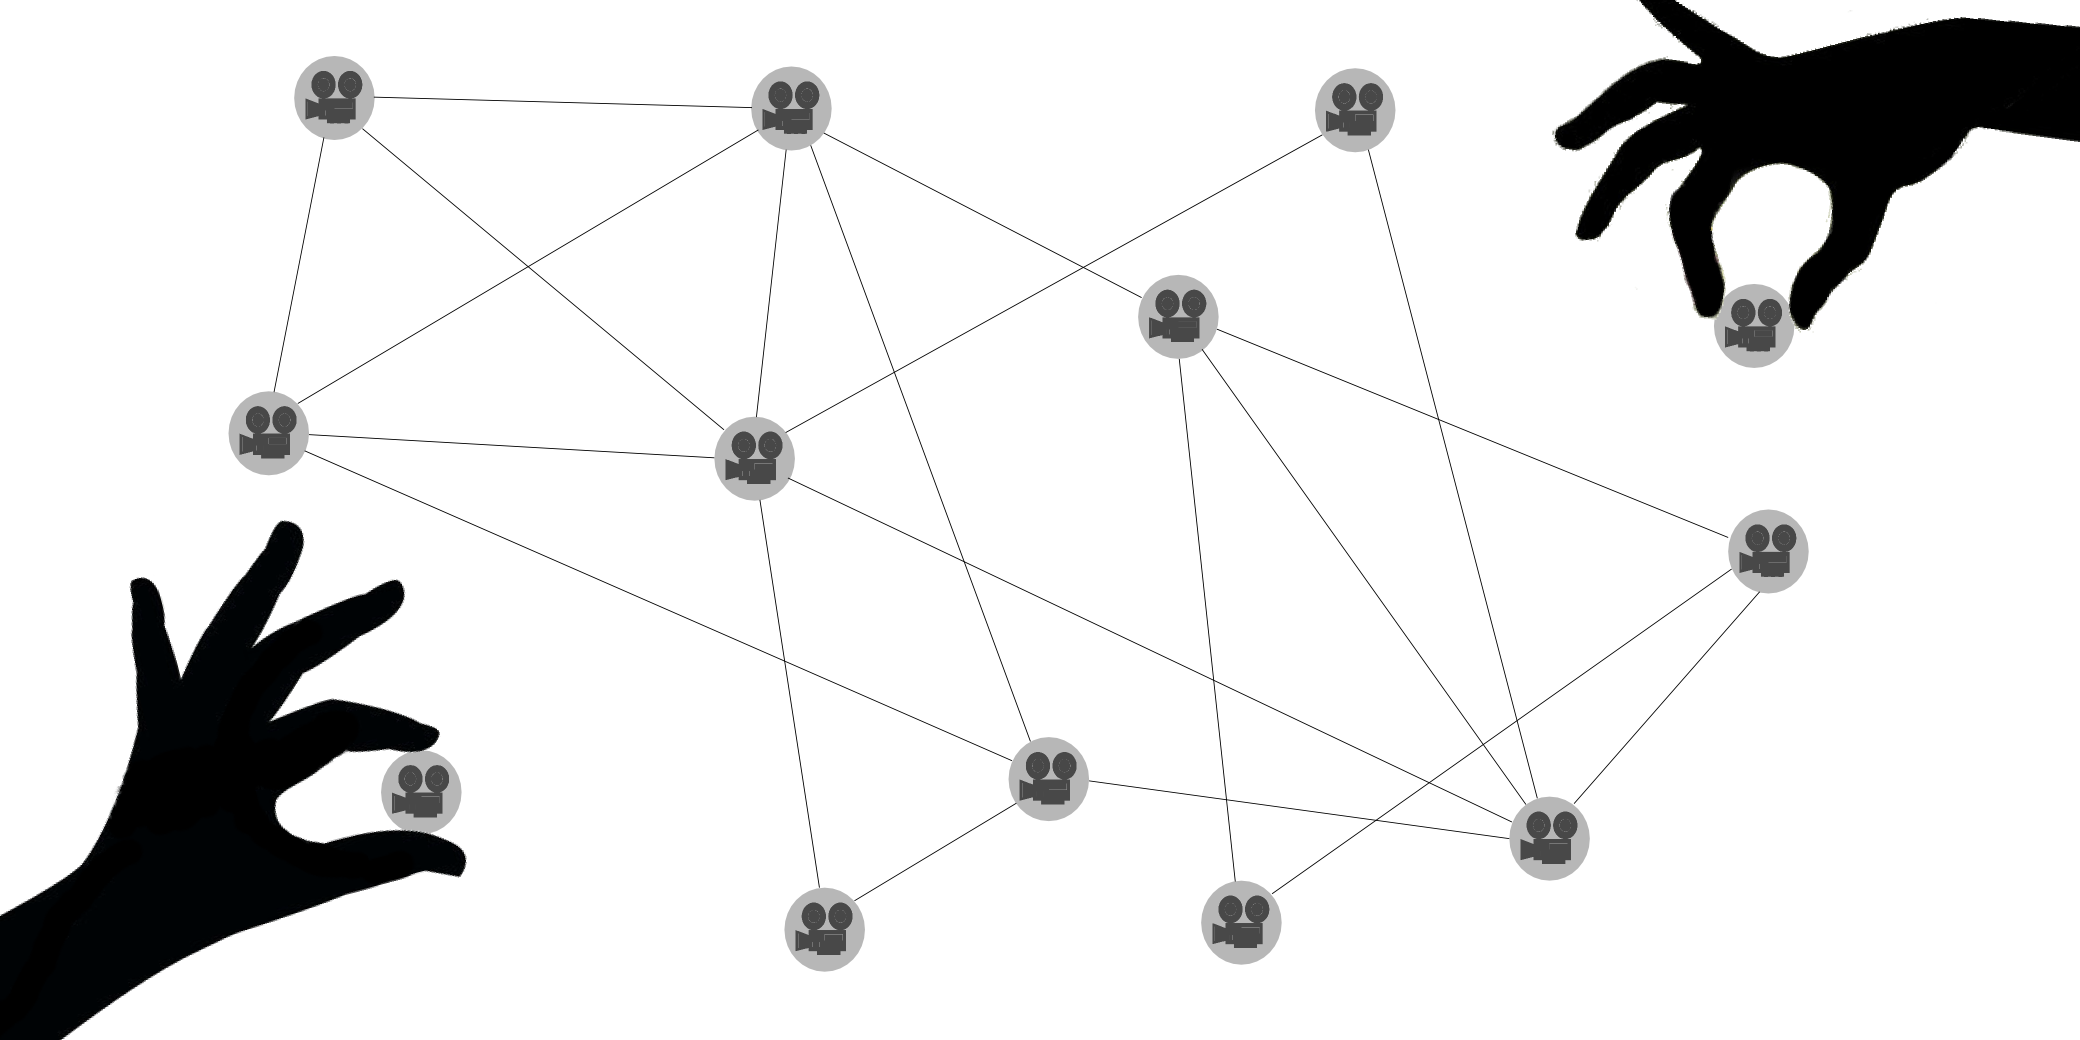
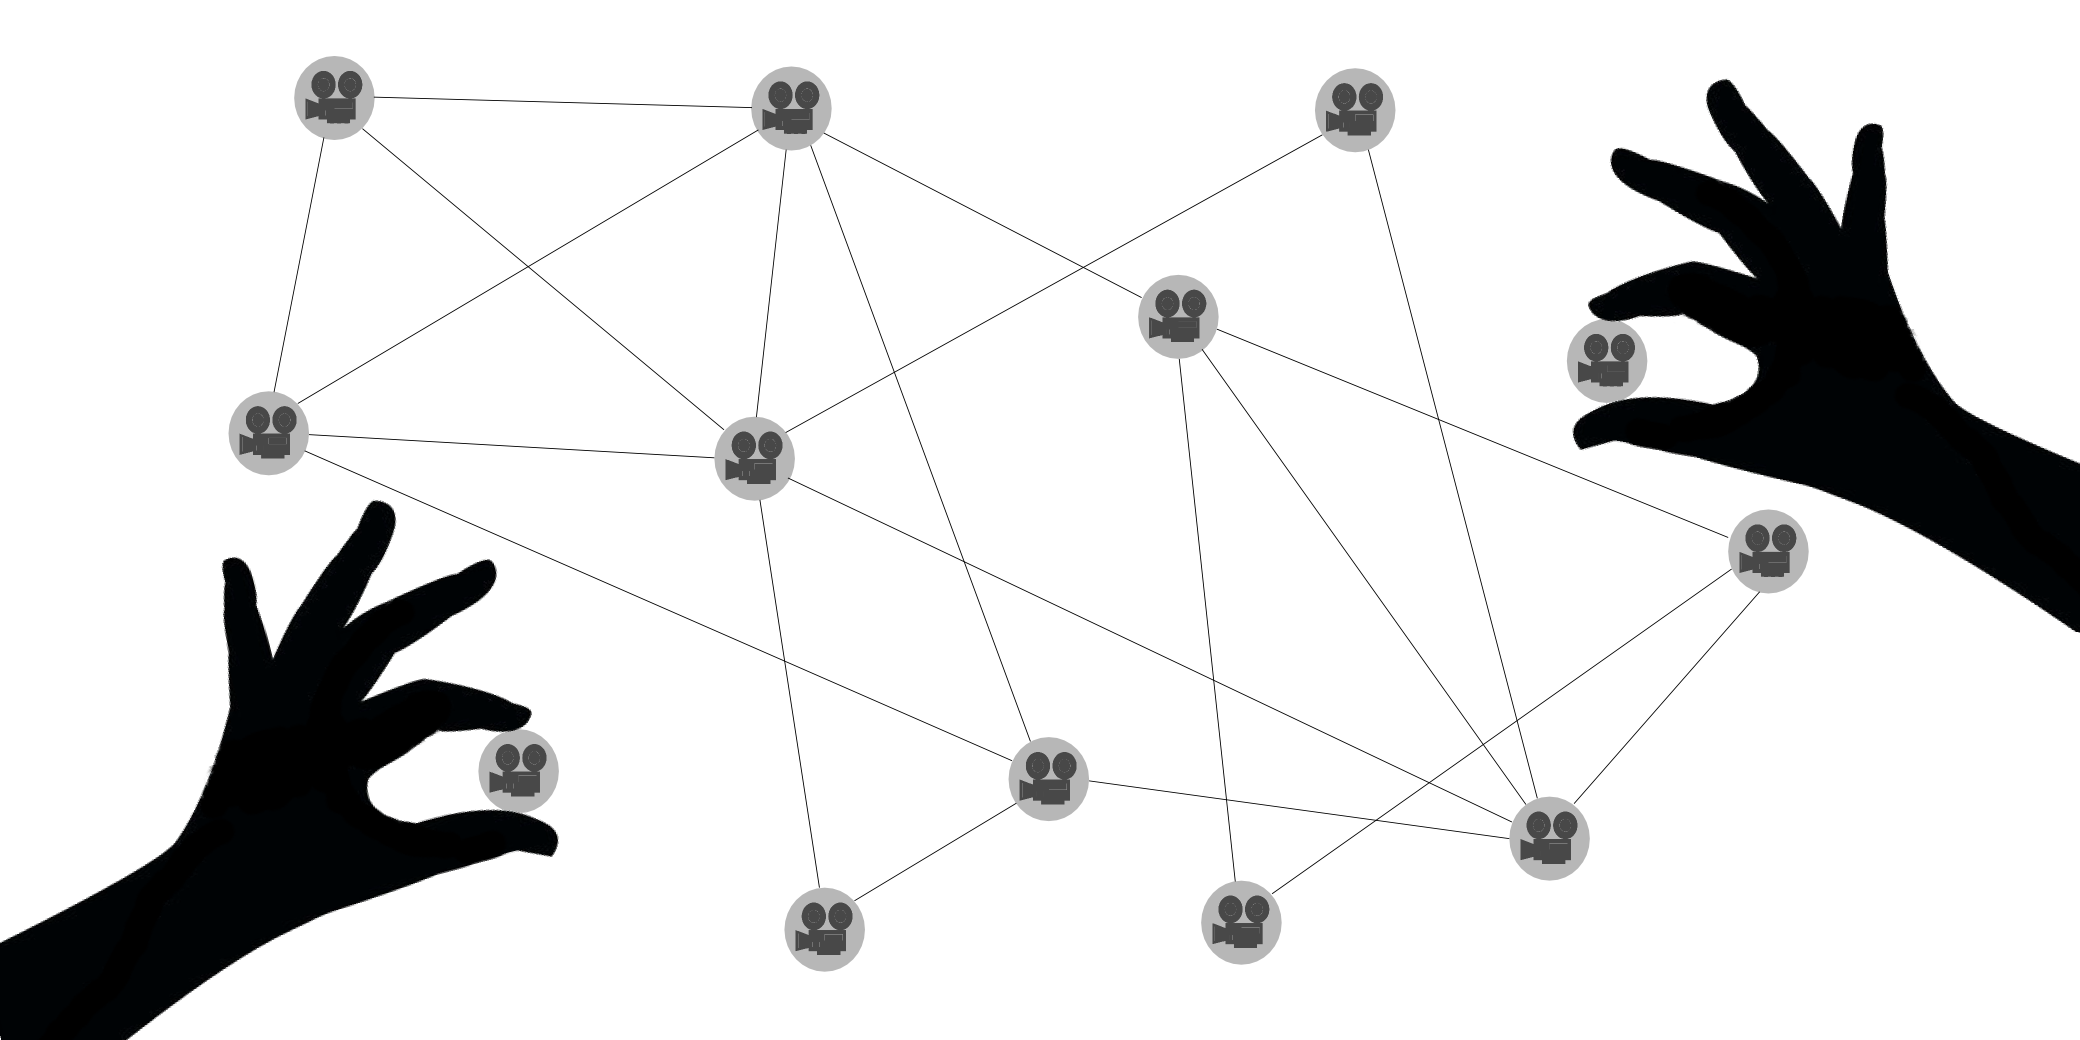
Enhancements to the style of the the camera picker

Changed region(s): [[0.75, 0.0, 1.0, 0.6154], [0.0, 0.4615, 0.2812, 1.0]]

diff --git a/src/Identity2/Content/Site.css b/src/Identity2/Content/Site.css
@@ -94,13 +94,32 @@ img.center {
     padding-right:7px;
     text-align:right;
 }
+.background-camera-pick,
+.background-camera-add,
+.background-camera-web {
+    width:100%;
+    height:100%;
+    min-width:700px;
+    min-height:700px;
+    position:fixed;
+    background-size: auto 100%;
+}
+.background-camera-pick {
+    background: no-repeat center url('../../Content/Images/CameraPicking-wide.png');
+}
+.background-camera-add {
+    background: no-repeat center url('../../Content/Images/CameraWeb.png');
+}
+.background-camera-web {
+    background: no-repeat center url('../../Content/Images/CameraWeb.png');
+}
 /**********************panels****************************/
 .add-panel,
 .register-panel,
 .pick-panel {
     margin-left:auto;
     margin-right:auto;
-    margin-top:10%;
+    margin-top:70px;
     border:2px dotted gray;
     background-color:#DBDADA;
     box-shadow: 10px 10px 5px #888888;
@@ -114,8 +133,8 @@ img.center {
     width:500px;
 }
 .pick-panel {
-    height:90%;
-    width:600px;
+    height:80%;
+    width:800px;
     margin-top:70px;
 }
 .control-panel {
